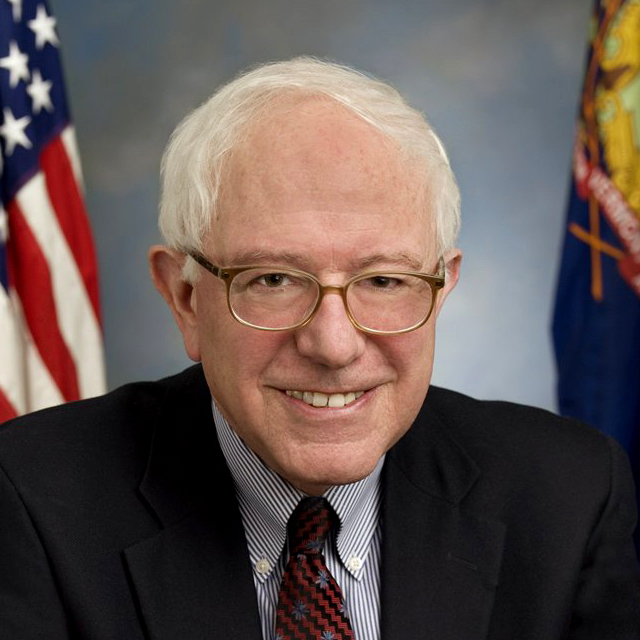
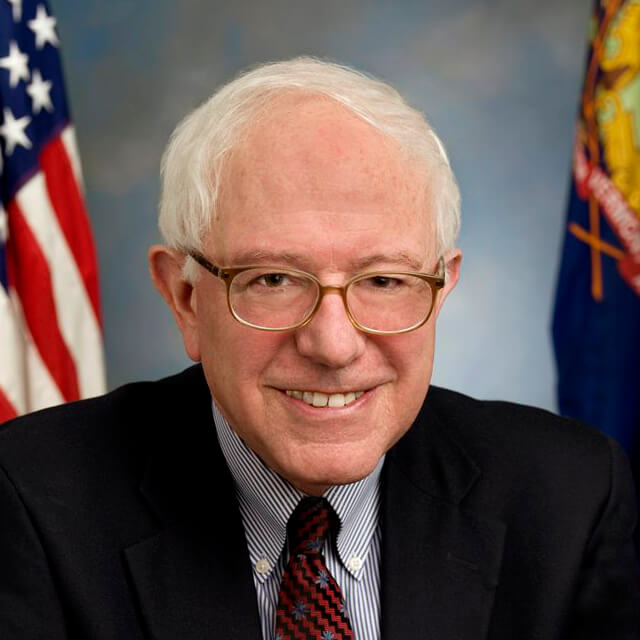
optimized images

diff --git a/TODO.md b/TODO.md
@@ -2,3 +2,6 @@ http://anandmanisankar.com/posts/docker-container-nginx-node-redis-example/
 https://hub.docker.com/_/nginx/
 https://hub.docker.com/_/node/
 https://docs.docker.com/compose/production/
+
+
+inline css
